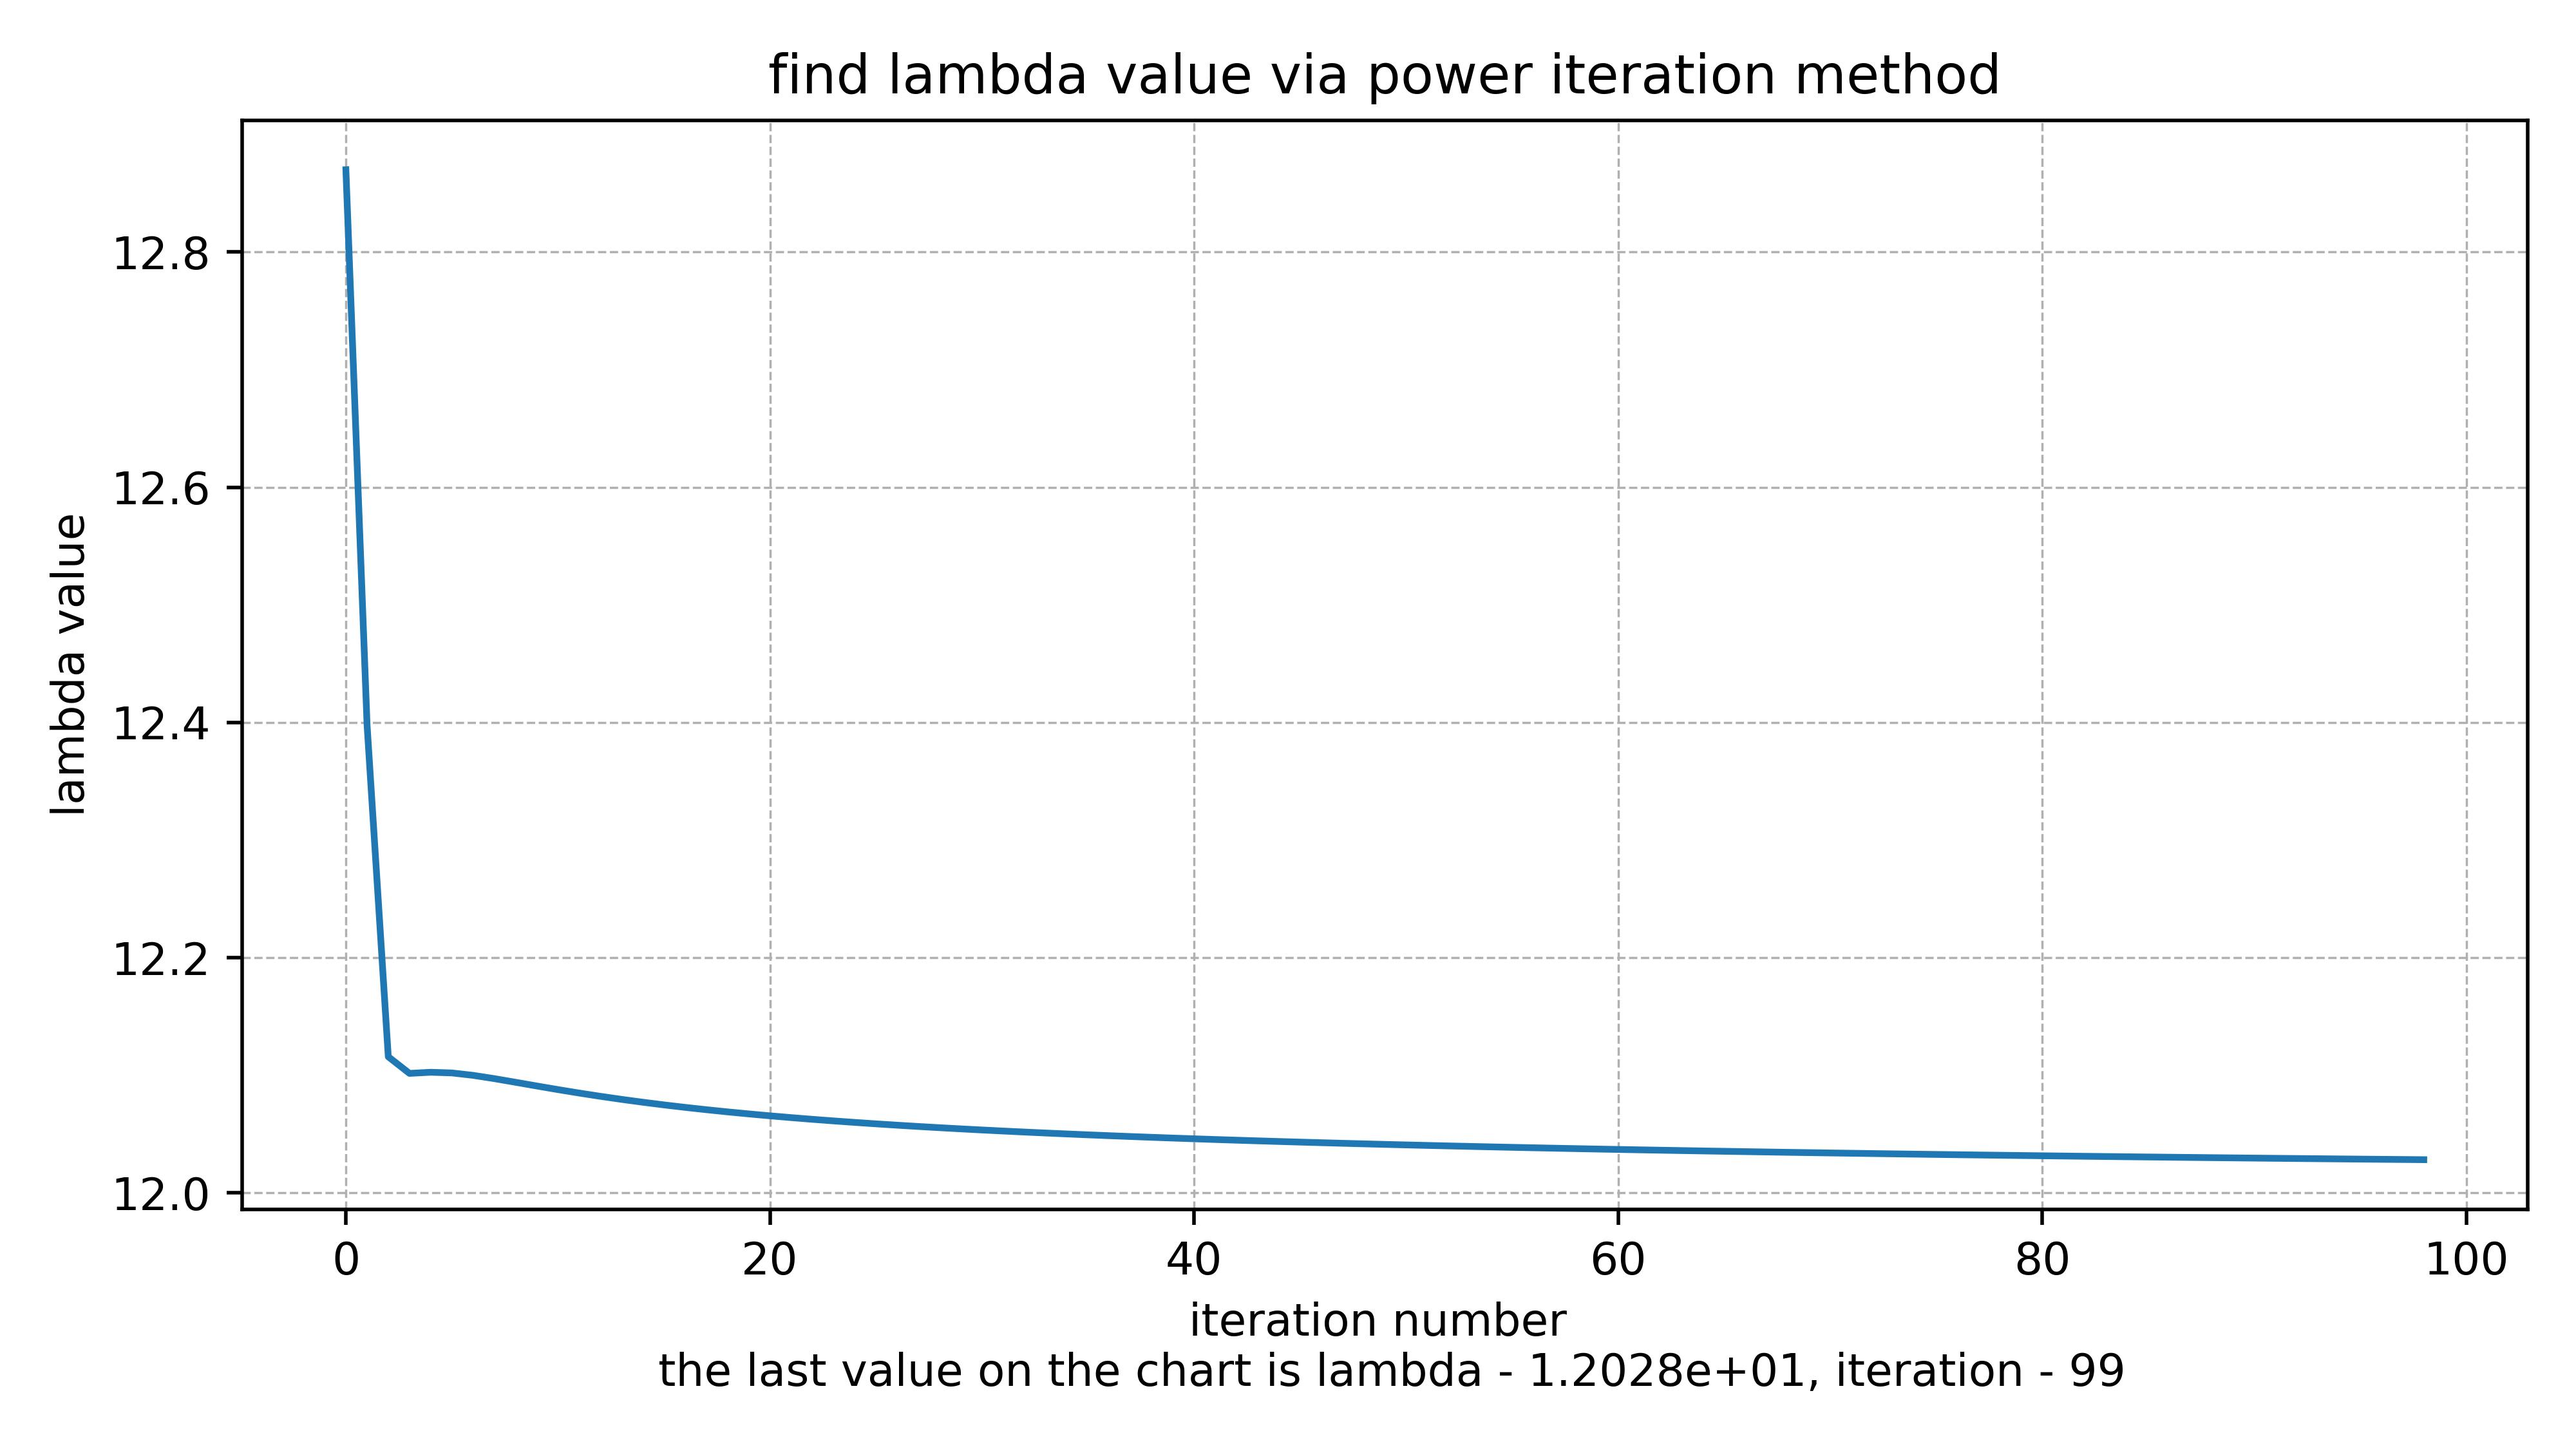
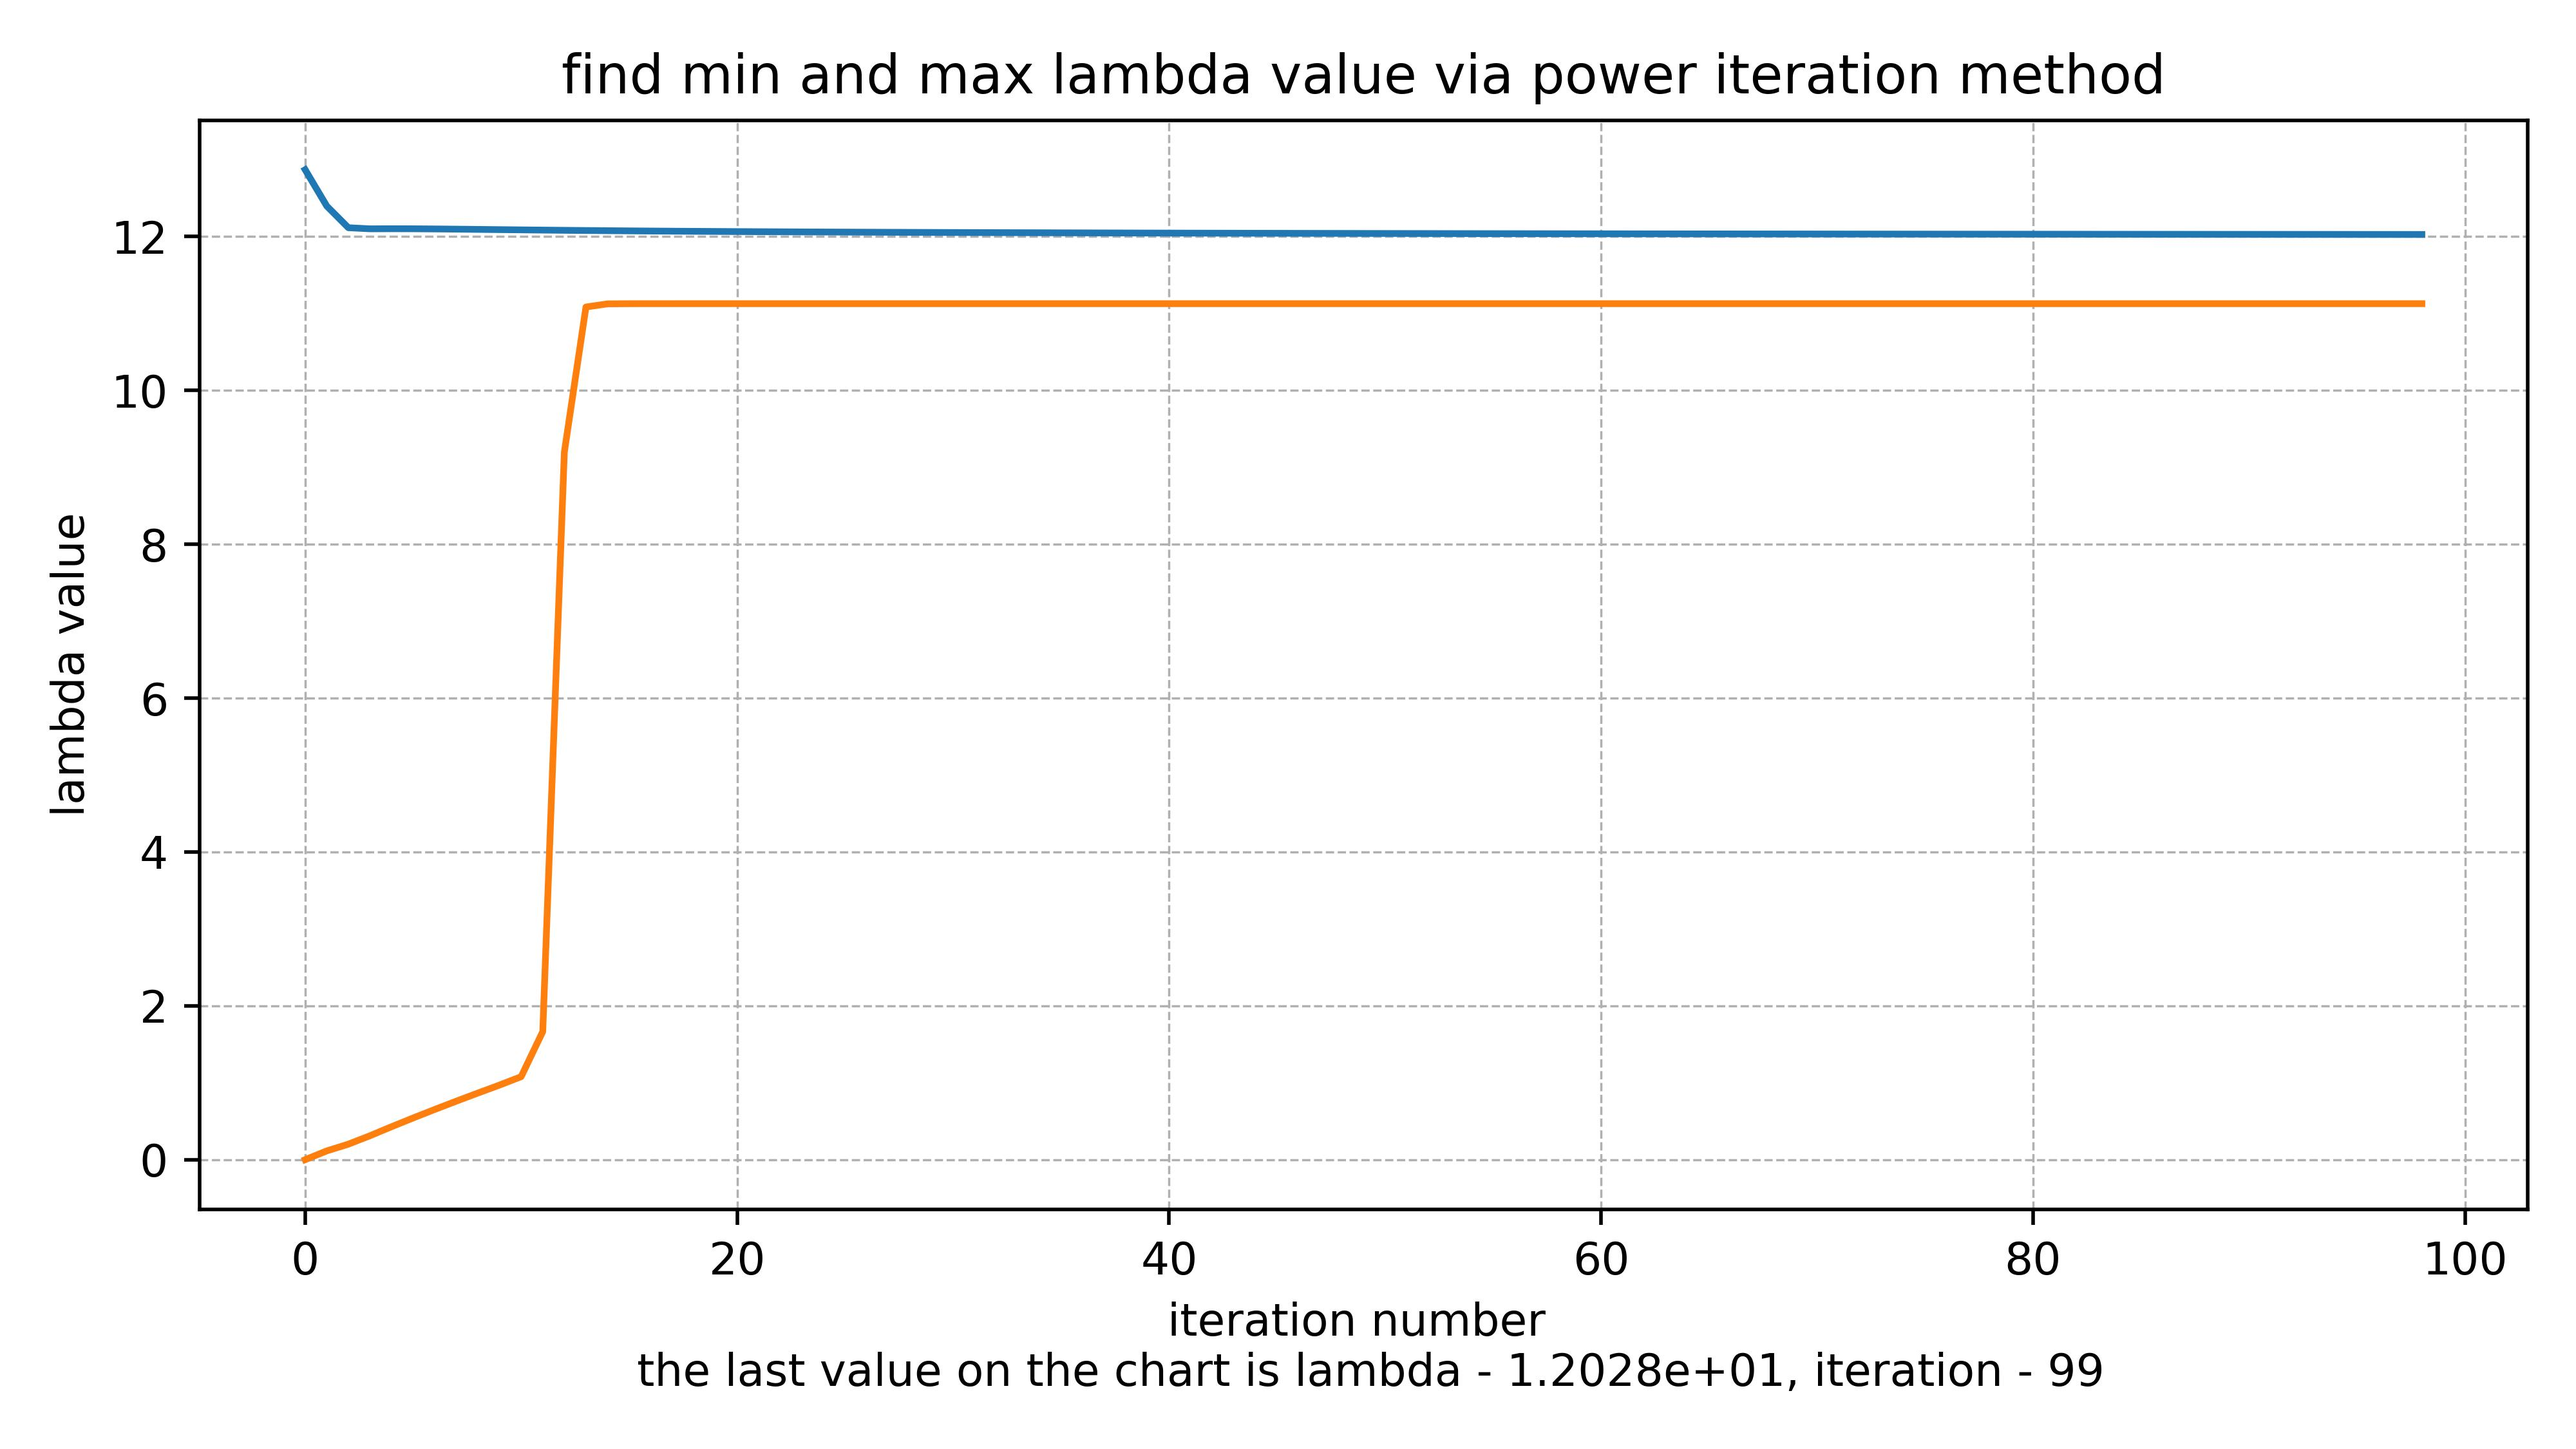
Lab2: Added min lambda method

diff --git a/lab2/power_iter.py b/lab2/power_iter.py
@@ -4,6 +4,10 @@ import math
 from matrix_init import _initMatrix_, _initValue_, m_getErrorMatrixNorm,\
                         builPlot
 
+def isPosDef(x):
+    return np.all(np.linalg.eigvals(x) > 0)
+
+
 SIGMA = 1e-8
 
 ITERATION_LIMIT = 100
@@ -33,11 +37,44 @@ for it_count in range(1, ITERATION_LIMIT):
 
     x = x_new
 
+"""
+print(np.dot(A, x))
+print(np.dot(lambda_list[-1], x))
+"""
+
+max_l = lambda_list[-1]
+
+# print(isPosDef(A))
+
+E = np.eye(len(A))
+
+min_lambda_list = []
+
+B = np.dot(max_l, E) - A
+
+for it_count in range(1, ITERATION_LIMIT):
+    
+    #x_new = np.zeros_like(x, dtype=np.float_)
+    
+    x_new = np.dot(B, x) / math.sqrt(np.dot(np.dot(B, x), np.dot(B, x)))
+
+    lambd = np.dot(np.dot(B, x), x) / np.dot(x, x)
+
+    #print(lambd)
+    
+    min_lambda_list.append(lambd)
+
+    x = x_new
+
+"""
+print(np.dot(A, x))
+print(np.dot(min_lambda_list[-1], x))
+"""
 
 plt.figure(figsize=(16/2,9/2))
 plt.plot(lambda_list)
-plt.title('find lambda value via power iteration method')
-
+plt.plot(min_lambda_list)
+plt.title('find min and max lambda value via power iteration method')
 
 plt.grid(linestyle = '--', linewidth = 0.5)
 

diff --git a/lab2/README.md b/lab2/README.md
@@ -71,7 +71,11 @@ $$
 
 To find maximum $\lambda$ of $A$ using power iteration method:
 
-![](../src/l2.svg)
+![](../src/l2/l2.svg)
+
+To find minimum $\lambda$ of $A$ using the same method, but for new B matrix:
+
+![](../src/l2/b_matrix.svg)
 
 >[Back to Methodology](#methodology)
 
